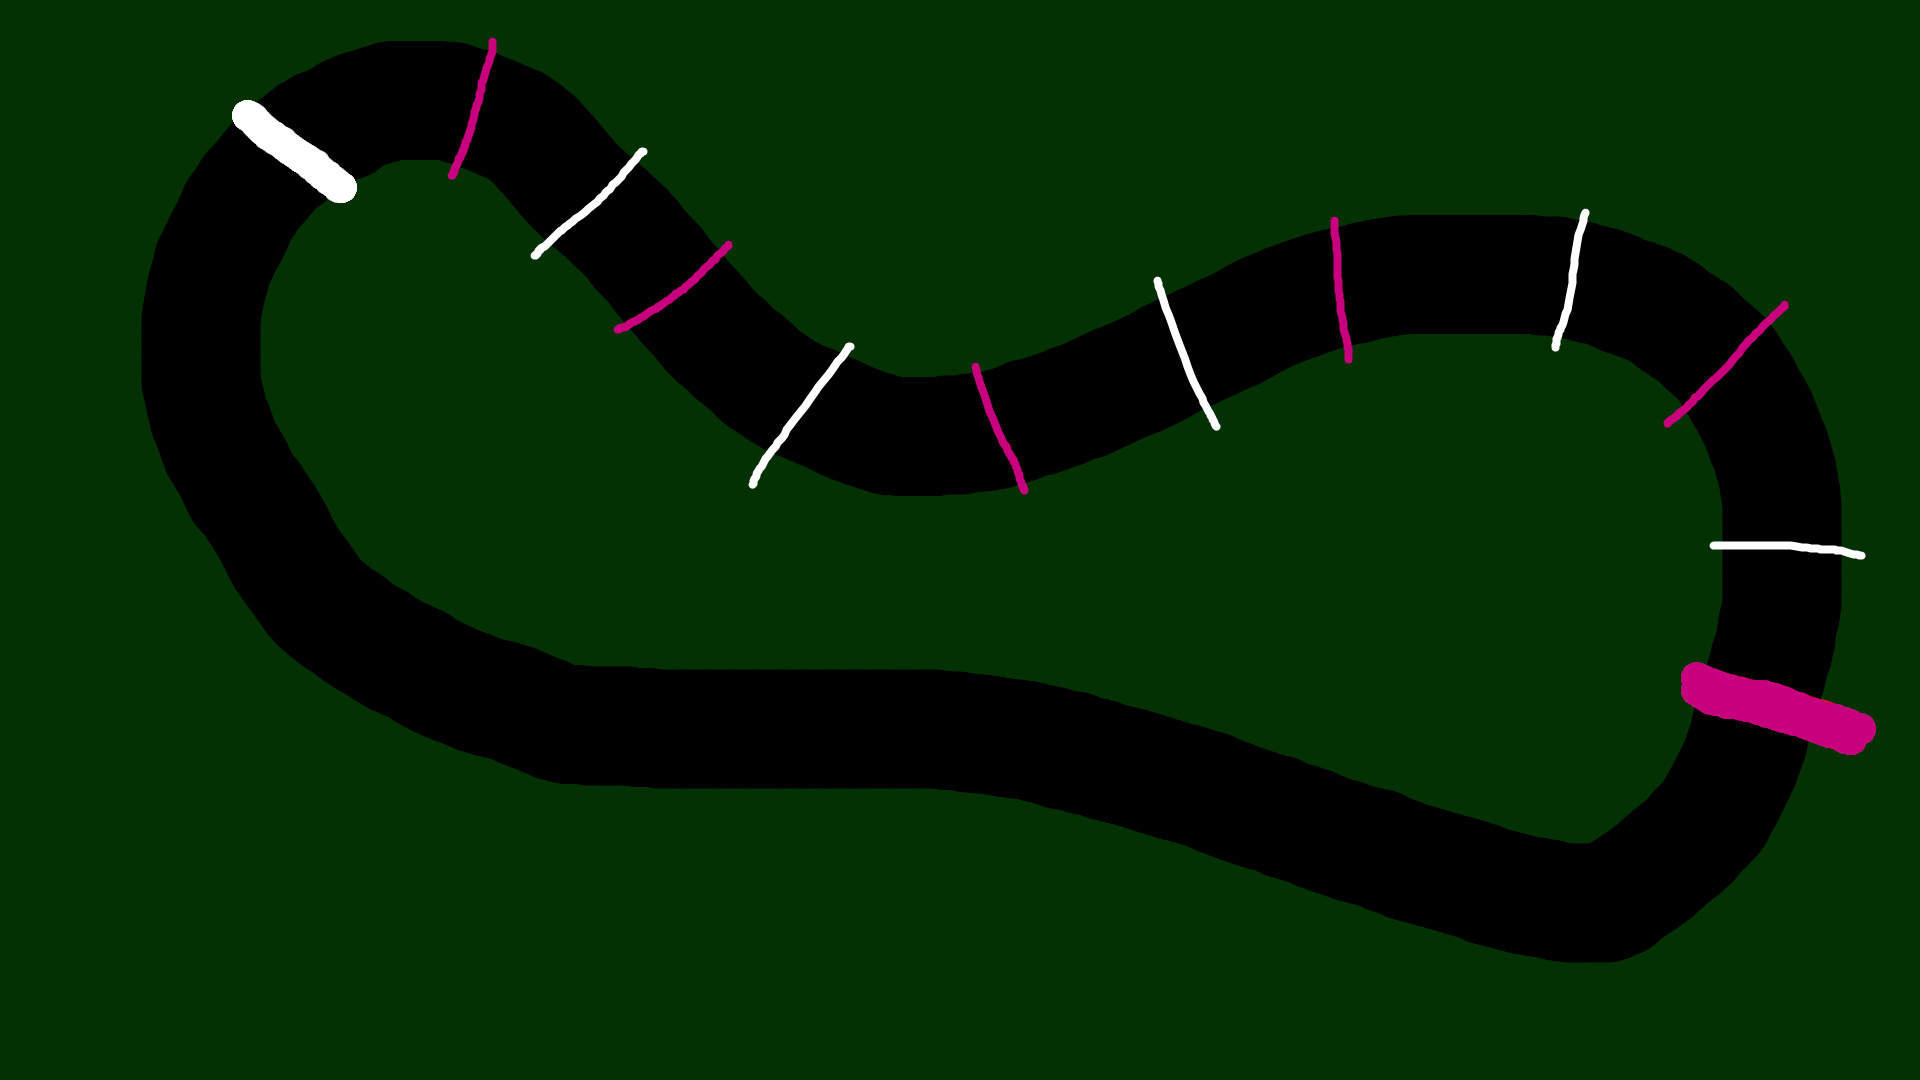
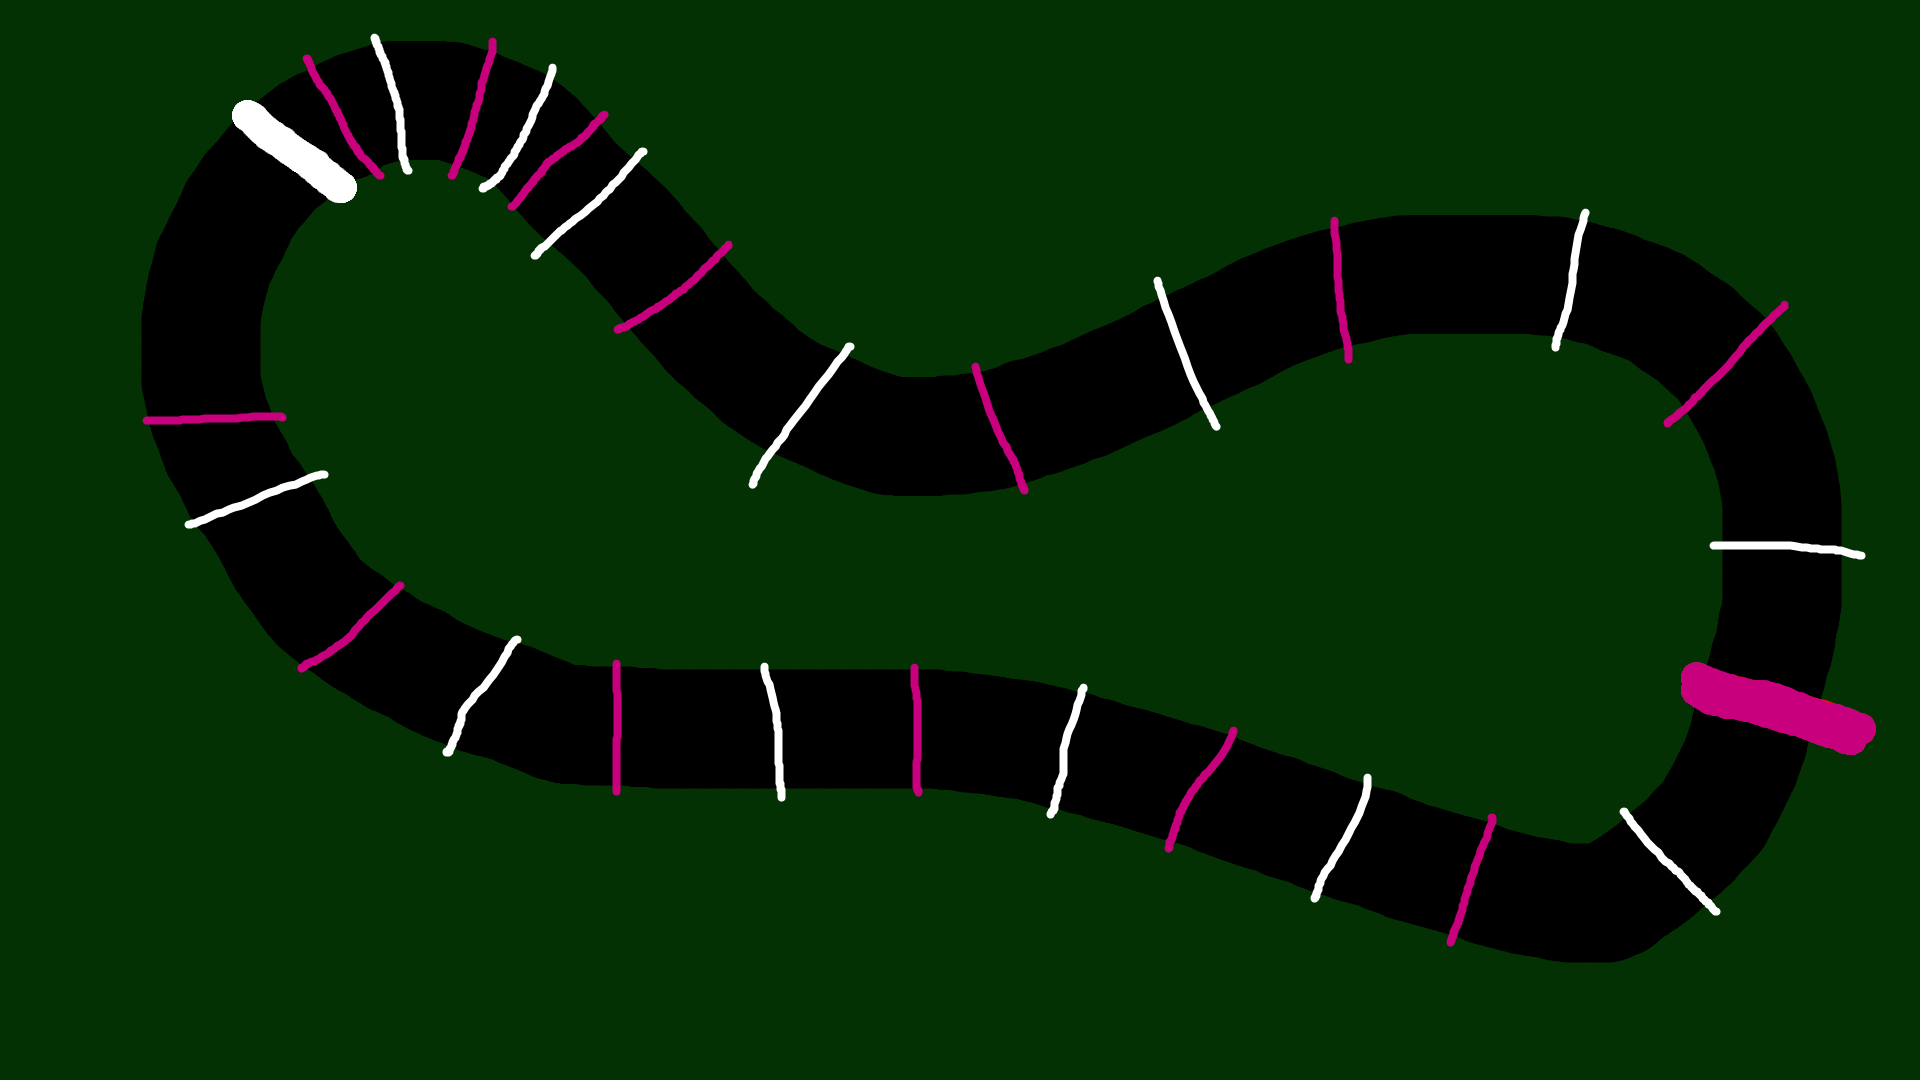
made previous deaths visible, new track & params

diff --git a/driver.js b/driver.js
@@ -5,7 +5,7 @@ class Driver {
 
         this.size = tempSize;
 
-        this.angle = 290;
+        this.angle = 300;
         this.vx = 0;
         this.vy = 0;
         this.ax = 0;
@@ -13,7 +13,7 @@ class Driver {
 
 
         // hiperParameters zone!
-        this.speedVar = 0.35;
+        this.speedVar = 0.3;
         this.dampForce = 1.07;
         this.angleForce = 3;
 
@@ -68,7 +68,7 @@ class Driver {
 
     calculate(order) {
         if (!this.death) {
-            if (controls[0] || order == 'w' || order == 0) {
+            if (controls[0] || order == 'w' || order == 0 || order == 3 || order == 4) {
                 this.ay += sin(radians(this.angle));
                 this.ax += cos(radians(this.angle));
             };
@@ -76,13 +76,13 @@ class Driver {
                 this.ay -= sin(radians(this.angle));
                 this.ax -= cos(radians(this.angle));
             };
-            if (controls[2] || order == 'a' || order == 2) {
+            if (controls[2] || order == 'a' || order == 1 || order == 3) {
                 this.angle -= this.angleForce;
                 if (this.angle < 0) {
                     this.angle = 360;
                 };
             };
-            if (controls[3] || order == 'd' || order == 3) {
+            if (controls[3] || order == 'd' || order == 2 || order == 4) {
                 this.angle += this.angleForce;
                 if (this.angle > 360) {
                     this.angle = 0;
@@ -117,14 +117,10 @@ class Driver {
 
         switch (currColor) {
             case 0: this.carColor = color(25, 255, 0, 150); break;
-            case 3: this.carColor = color(180, 25, 0, 150); this.death = true; OnSpecialBadEvent(); deathCounter++; resetDrivers(); break;
-            case 255: this.carColor = color(10, 25, 255, 150); this.loopCheck = (!this.loopCheck && this.score % 2 == 0) ? (true, this.score++, OnSpecialGoodEvent(2.0)) : false; break;
-            case 200: this.carColor = color(10, 25, 255, 150); this.loopCheck = (!this.loopCheck && this.score % 2 == 1) ? (true, this.score++, OnSpecialGoodEvent(2.0)) : false; break;
+            case 3: this.carColor = color(180, 25, 0, 150); this.prevDeaths.unshift([this.x, this.y, this.angle]); this.death = true; OnSpecialBadEvent(-5.0); deathCounter++; resetDrivers(); break;
+            case 255: this.carColor = color(10, 25, 255, 150); this.loopCheck = (!this.loopCheck && this.score % 2 == 0) ? (true, this.score++, OnSpecialGoodEvent(2.0)) : false; OnSpecialBadEvent(-2.0); break;
+            case 200: this.carColor = color(10, 25, 255, 150); this.loopCheck = (!this.loopCheck && this.score % 2 == 1) ? (true, this.score++, OnSpecialGoodEvent(2.0)) : false; OnSpecialBadEvent(-2.0); break;
             default: this.carColor = color(180, 25, 255, 150); break;
         }
-    }
-
-    sendInputs(){
-        return [this.x, this.y, this.angle, this.vx, this.vy]
     }
 }

diff --git a/main.js b/main.js
@@ -6,7 +6,7 @@ let algo;
 let RL;
 let toggleCreator = false;
 let driverStart = [225, 200];
-let linesControls = [0, 0, 0, 0, 0, 0];
+let linesControls = [0, 0, 0];
 const angles = [45, 0, 315]; // 225, 180, 135
 
 let deathCounter = 0;
@@ -48,11 +48,11 @@ function setup() {
   // reimproveJS setup
   const modelFitConfig = {
     epochs: 1,
-    stepsPerEpoch: 16
+    stepsPerEpoch: 60
   };
 
-  const numActions = 4;
-  const inputSize = 6;
+  const numActions = 5;
+  const inputSize = 8;
   const temporalWindow = 3;
 
 
@@ -72,19 +72,19 @@ function setup() {
 
 
   const teacherConfig = {
-    lessonsQuantity: 10000,
-    lessonsLength: 20,
-    lessonsWithRandom: 2,
-    epsilon: 1,
+    lessonsQuantity: 1000,
+    lessonLength: 600,
+    lessonsWithRandom: 0,
+    epsilon: 0.6,
     epsilonDecay: 0.995,
     epsilonMin: 0.05,
-    gamma: 0.8
+    gamma: 0.7
   };
 
   const agentConfig = {
     model: model,
     agentConfig: {
-      memorySize: 5000,
+      memorySize: 1000,
       batchSize: 128,
       temporalWindow: temporalWindow
     }
@@ -100,12 +100,11 @@ function setup() {
 }
 
 function draw() {
-
+  // noLoop();
   background(track);
   if (!toggleCreator) {
     driver.checkPath();
     driver.show();
-
     // driver.calculate(RL.performAction(keys[Math.floor(Math.random() * keys.length)]));
 
     step().then(result => {
@@ -121,6 +120,8 @@ function draw() {
 
     algo.checkCheckpoint();
     algo.showCheckpoints();
+
+    keepDistance(linesControls);
   } else {
     trackCreator.drawTrack();
     algo.showCheckpoints();
@@ -131,8 +132,11 @@ function draw() {
     } else if (keyIsDown(74) && trackCreator.painterSize > 1) {
       trackCreator.painterSize -= 2;
     }
+
   }
   // reimproveJS
+
+  //print(linesControls)
 }
 
 function windowResized() {
@@ -161,8 +165,10 @@ function keyReleased() {
 function resetDrivers() {
   driver.x = driverStart[0];
   driver.y = driverStart[1];
+  driver.vx = 0;
+  driver.vy = 0;
   driver.death = false;
-  driver.angle = 290;
+  driver.angle = 300;
   driver.score = 0;
 
   algo.lastCheck = [[[0, 0], [0, 0]], [[0, 0], [0, 0]]];
@@ -175,19 +181,15 @@ function OnSpecialGoodEvent(award) {
   academy.addRewardToAgent(agent, award);
 }
 
-function OnSpecialBadEvent() {
+function OnSpecialBadEvent(award) {
   // console.log("BAD ROBOT!");
-  academy.addRewardToAgent(agent, -1.0);
-}
-
-function getInputs(){
- return [driver.x, driver.y, driver.vx, driver.vy]
+  academy.addRewardToAgent(agent, award);
 }
 
 async function step() {
-  let inputs = linesControls;
-  
-  let result = await academy.step([{teacherName: teacher, agentsInput: inputs}]);
+  let inputs = linesControls.concat([driver.x, driver.y, driver.vx, driver.vy, driver.angle]);
+
+  let result = await academy.step([{ teacherName: teacher, agentsInput: inputs }]);
 
   let ord = result.get(agent);
 

diff --git a/learningAlgorithm.js b/learningAlgorithm.js
@@ -21,7 +21,7 @@ class GenAlgo {
             const px = carX + i * cos(radians(carAngle))
             const py = carY + i * sin(radians(carAngle))
 
-            if (track.get(px, py)[0] == 3) { // change get to optimal func
+            if (track.get(px, py)[0] == 3 && track.get(px, py)[1] == 49) { // change get to optimal func
                 stroke(255, 0, 255, 100);
                 strokeWeight(2);
                 line(0, 0, i, 0);
@@ -31,6 +31,7 @@ class GenAlgo {
                 linesControls[ind] = i;
                 break;
             };
+            linesControls[ind] = 999;
         };
         pop();
     }

diff --git a/index.html b/index.html
@@ -18,6 +18,6 @@
     <script src="driver.js"></script>
     <script src="trackCreator.js"></script>
     <script src="learningAlgorithm.js"></script>
-    
+    <script src="reinforced.js"></script>
   </body>
 </html>

diff --git a/reinforced.js b/reinforced.js
@@ -1,0 +1,6 @@
+function keepDistance(linesDistance) {
+    for (i in linesDistance) {
+        OnSpecialGoodEvent(linesDistance[i] * 0.001);
+        // print(linesDistance[i] * 0.01)
+    }
+}
